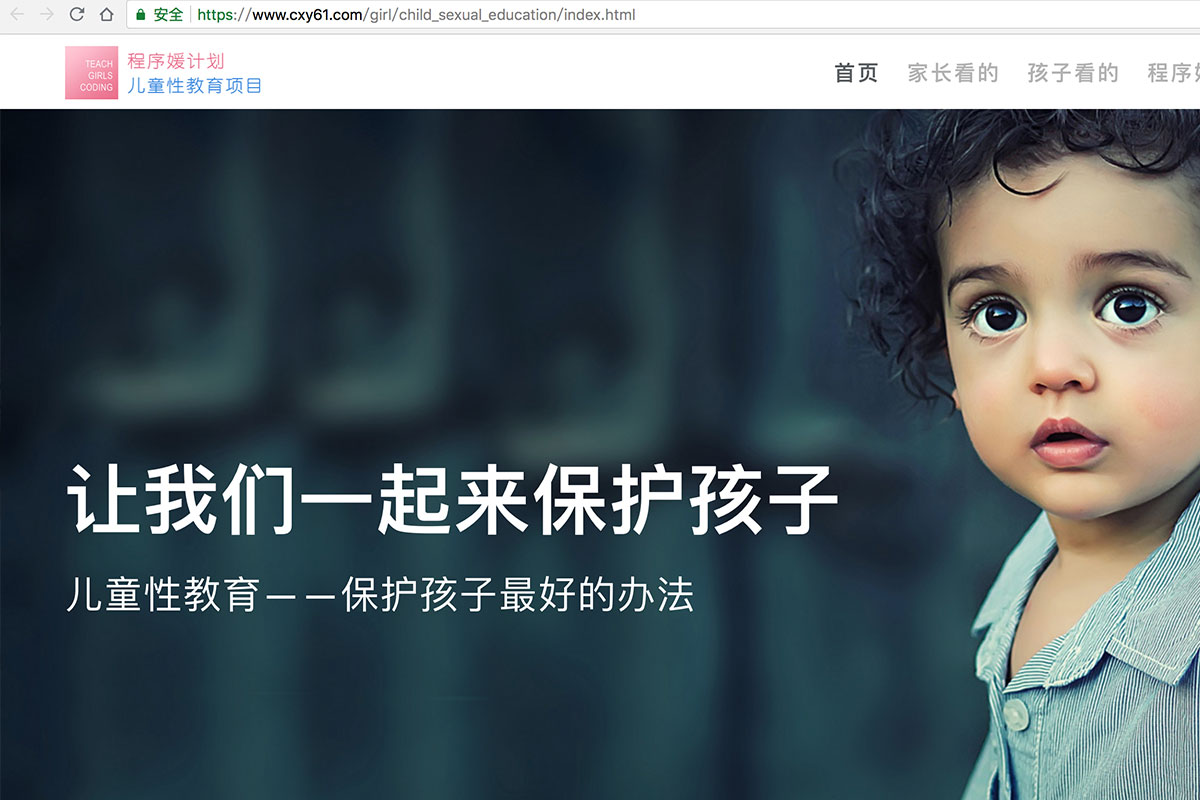
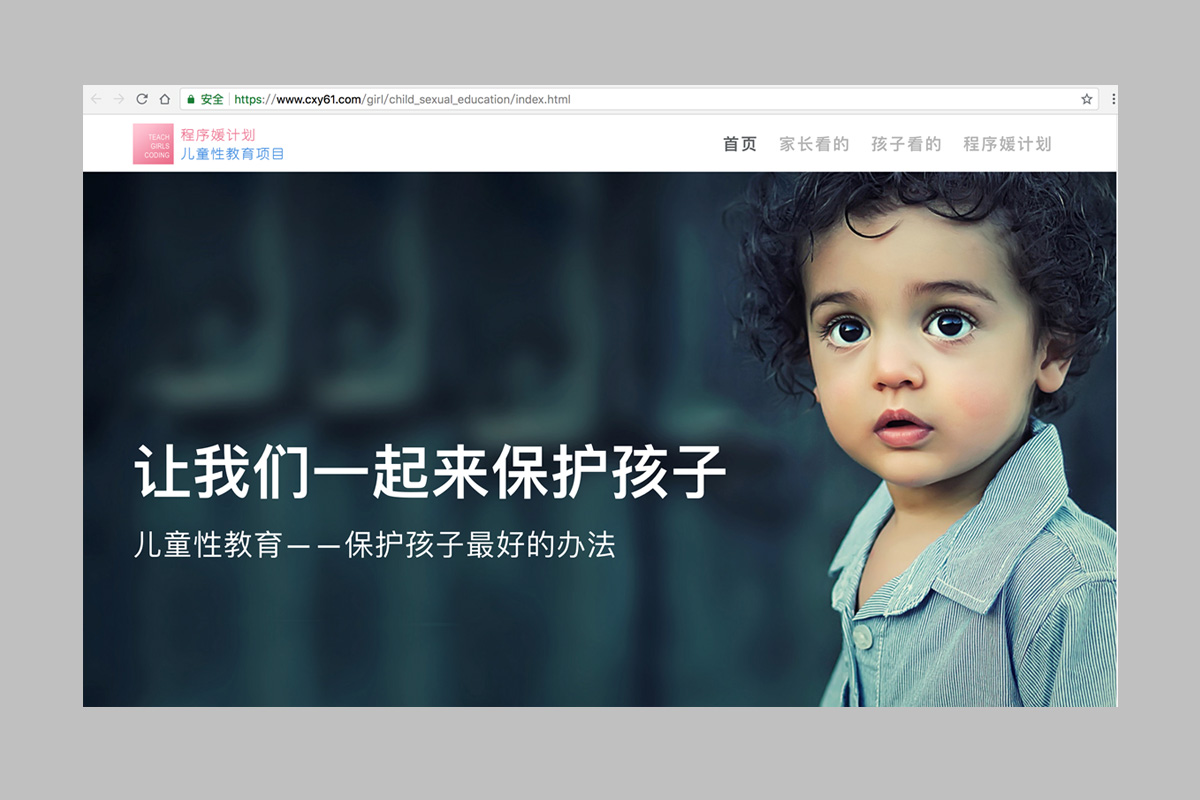
程序媛第二季首页修改

diff --git a/decades-theme/index-image/css/style.css b/decades-theme/index-image/css/style.css
@@ -865,7 +865,8 @@ ul.main-nav-inner {
     color: #fff;
     display: block;
     /*font-size: 12px;*/
-    font-size: 24px;
+    /*font-size: 24px;*/
+    font-size: 18px;
     font-weight: 600;
     line-height: 90px;
     text-transform: uppercase;
@@ -892,7 +893,8 @@ ul.main-nav-inner {
 
 .header.stuck .main-nav-inner li a {
     /*color: #afafaf;*/
-    color: black;
+    /*color: black;*/
+    color: #919191;
     line-height: 70px;
 }
 
